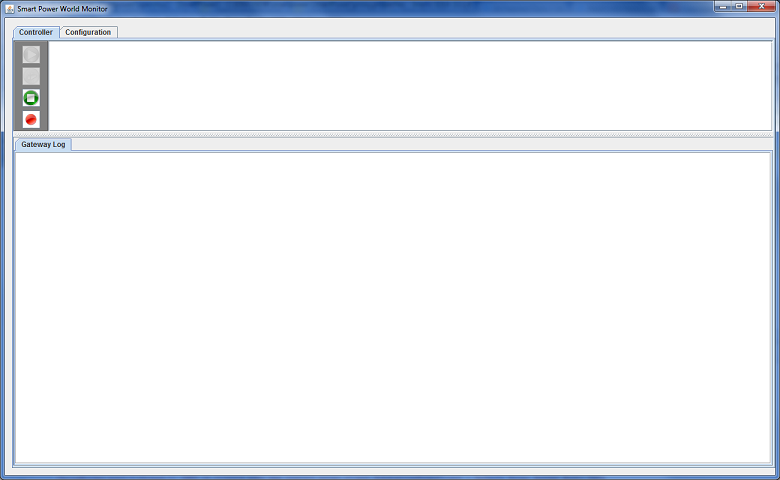
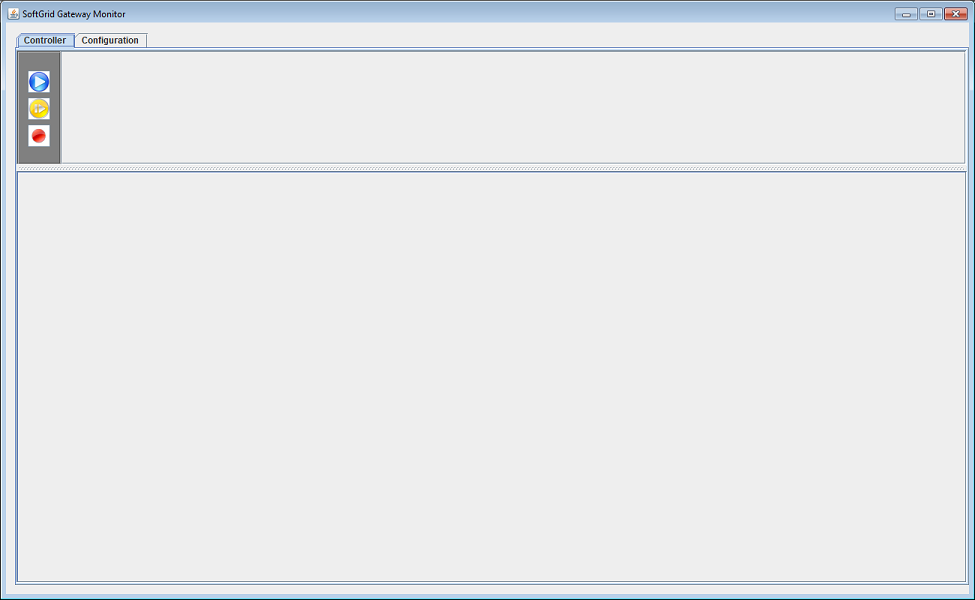
Window Title changed

Changed region(s): [[0.0, 0.0, 1.0, 1.0]]

diff --git a/SoftGrid/src/main/java/it/adsc/smartpower/substation/monitoring/ui/SPMainFrame.java b/SoftGrid/src/main/java/it/adsc/smartpower/substation/monitoring/ui/SPMainFrame.java
@@ -100,7 +100,7 @@ public class SPMainFrame extends JFrame implements ActionListener, WindowListene
     private boolean chartPanelVisible = true;
 
     private SPMainFrame() throws HeadlessException {
-        super("Smart Power World Monitor");
+        super("SoftGrid Monitor");
         try {
             setupGUI();
         } catch (Exception e) {
@@ -494,7 +494,7 @@ public class SPMainFrame extends JFrame implements ActionListener, WindowListene
                         for (MonitorConfig monitorConfig : monitorConfigs) {
                             if (monitorConfig.getDeviceType().equalsIgnoreCase(type)) {
                                 if (monitorConfig.getKeyValueMap().isEmpty()) {
-                                  found = true;
+                                    found = true;
 //                                    for (MonitorConfig newMonitor : newMonitors) {
 //                                        MonitorConfig monitorConfig1 = new MonitorConfig();
 //                                        monitorConfig1.setDeviceType(monitorConfig.getDeviceType());
@@ -697,14 +697,17 @@ public class SPMainFrame extends JFrame implements ActionListener, WindowListene
 //        }
     }
 
-    public void displayMonitorWindow() {
+    public void displayMonitorWindow(String title) {
+        if (title != null && title.equals("PRX")) {
+            setTitle("SoftGrid Gateway Monitor");
+        }
         this.setVisible(true);
         this.addWindowListener(this);
         this.setSize(new Dimension(1300, 800));
     }
 
     public static void main(String[] args) {
-        SPMainFrame.getInstance().displayMonitorWindow();
+        SPMainFrame.getInstance().displayMonitorWindow(args.length > 0 ? args[0] : null);
     }
 
     private void startPython() {

diff --git a/SoftGrid/src/main/java/it/illinois/adsc/ema/operation/SoftGridMain.java b/SoftGrid/src/main/java/it/illinois/adsc/ema/operation/SoftGridMain.java
@@ -32,7 +32,7 @@ public class SoftGridMain {
             }
             else if(isProxy)
             {
-                SPMainFrame.getInstance().displayMonitorWindow();
+                SPMainFrame.getInstance().displayMonitorWindow("PRX");
             }
 //            else if(isCC)
 //            {
@@ -44,7 +44,7 @@ public class SoftGridMain {
                 if (isRemote) {
                     listenToMulticastCommands();
                 }
-                SPMainFrame.getInstance().displayMonitorWindow();
+                SPMainFrame.getInstance().displayMonitorWindow(null);
                 if (isRemote) {
                     SPMainFrame.getInstance().removeChartPanel();
                     SPMainFrame.getInstance().startIEDs(args.length >= 2 ? args[1] : null);
@@ -85,7 +85,7 @@ public class SoftGridMain {
                                     SPMainFrame.getInstance().stopIEDServers();
                                     break;
                                 case "INIT":
-                                    SPMainFrame.getInstance().displayMonitorWindow();
+                                    SPMainFrame.getInstance().displayMonitorWindow(null);
                                     SPMainFrame.getInstance().startIEDs(null);
                                     break;
                             }

diff --git a/SoftGrid/src/main/java/it/illinois/adsc/ema/control/conf/generator/ConfigGenerator.java b/SoftGrid/src/main/java/it/illinois/adsc/ema/control/conf/generator/ConfigGenerator.java
@@ -372,6 +372,7 @@ public class ConfigGenerator {
         try {
             cidFile.createNewFile();
         } catch (IOException e) {
+            System.out.println("cidFile = " + cidFile.getAbsolutePath());
             e.printStackTrace();
         }
         StringBuffer headerString = new StringBuffer();

diff --git a/SoftGrid/src/main/java/it/adsc/smartpower/substation/monitoring/ui/IEDControler.java b/SoftGrid/src/main/java/it/adsc/smartpower/substation/monitoring/ui/IEDControler.java
@@ -24,7 +24,7 @@ package it.adsc.smartpower.substation.monitoring.ui;
  * Created by prageethmahendra on 2/9/2016.
  */
 public interface IEDControler {
-    void displayMonitorWindow();
+    void displayMonitorWindow(String title);
     void loadConfigurations();
     void startIEDs(String caseFile);
 
